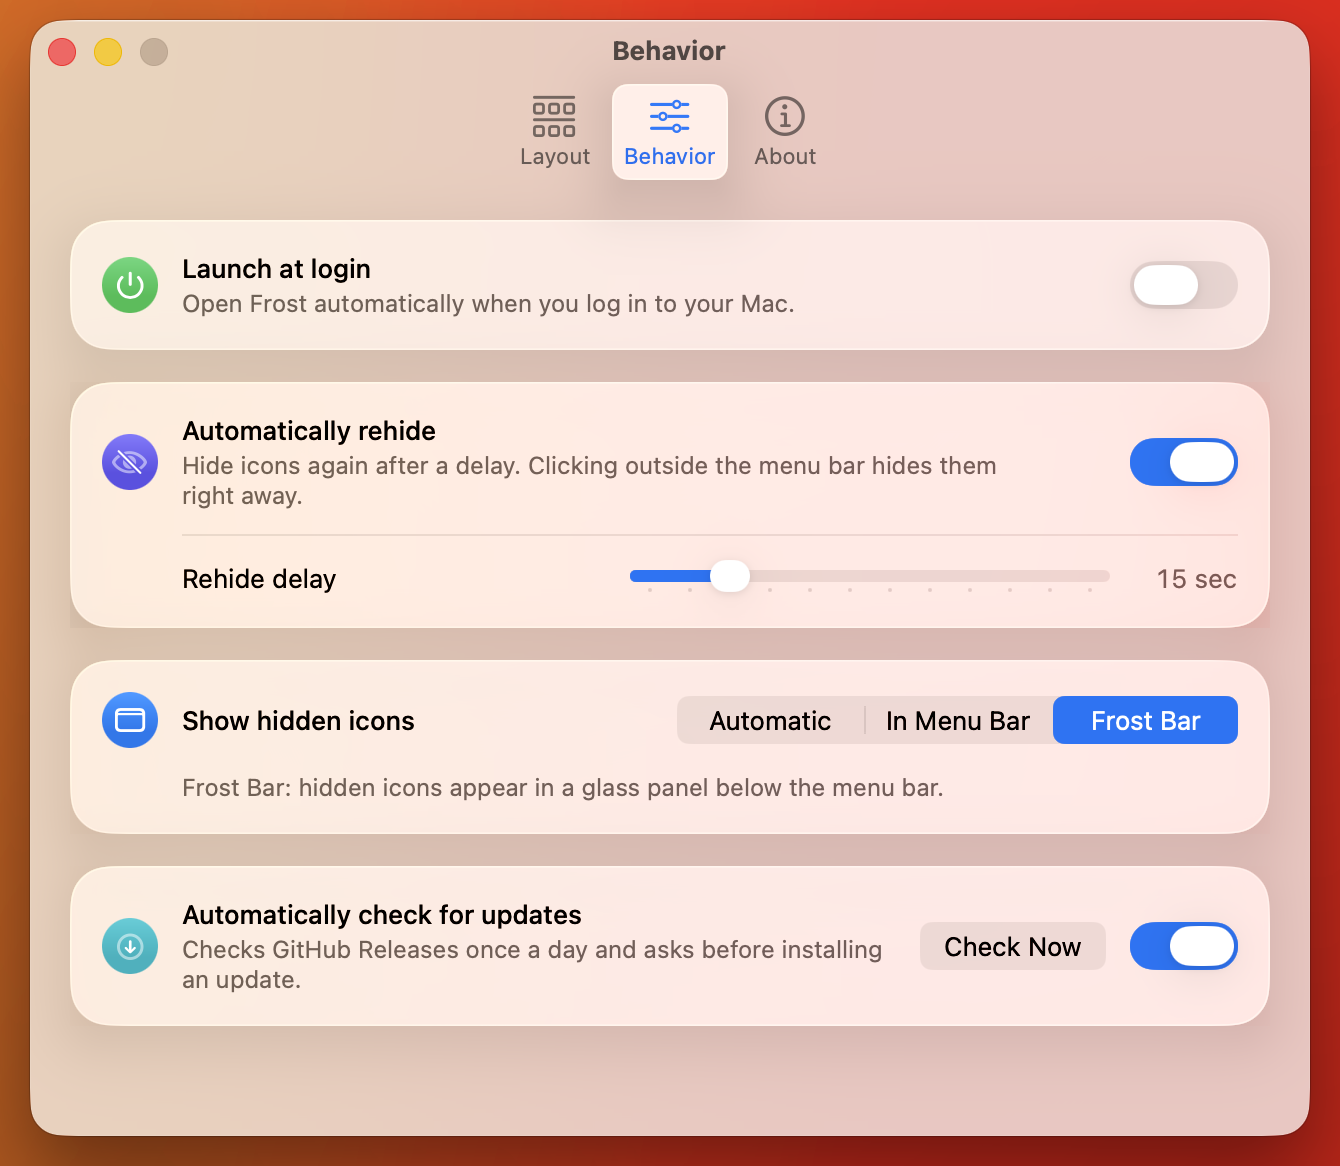
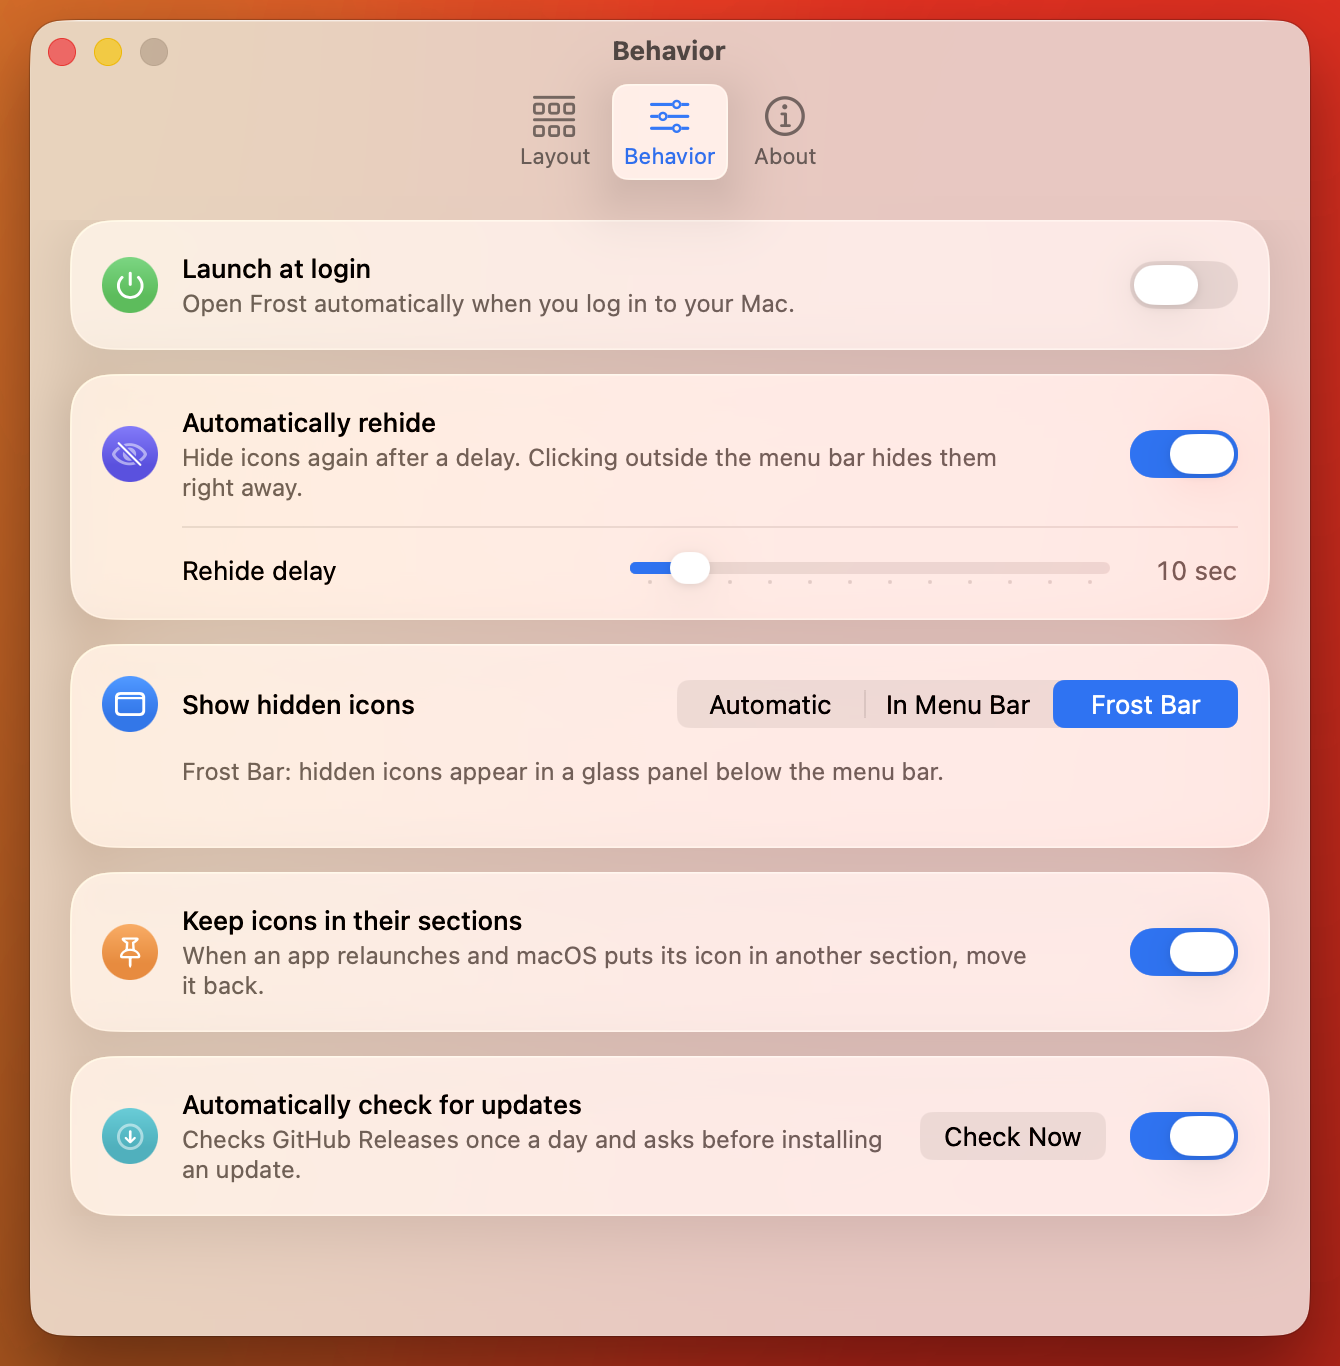
fix: keep Settings tab content below the toolbar and fit every tab
The settings window uses a full-size content view under a transparent toolbar, so
each tab's hosting view spanned the toolbar area too. Once the Behavior tab grew
taller than the fixed 470 pt content area, its ScrollView scrolled the cards up
under the toolbar, where they showed through the tab labels.

- Each tab is now hosted in a container that pins the SwiftUI view to the safe
  area (below the toolbar) and clips it there; the shared translucent background
  still extends under the toolbar.
- The 12 pt gap below the toolbar is an empty top bar instead of padding, with
  the hard scroll edge effect, so a tab that ever scrolls disappears under that
  edge instead of being cut off.
- The content area is 570 pt tall (one size for every tab, tab switches stay an
  instant-size cross-fade): Behavior measured 525 pt in English, 566 pt with the
  missing-permissions notice; zh-Hans is shorter. Behavior's card spacing goes
  from 16 to 12 pt to keep the window compact.
- FROST_TEST_SETTINGS_HEIGHT (Debug) overrides the content height for VM checks.
- Updated the Behavior screenshot.

diff --git a/Frost/Settings/SettingsWindowController.swift b/Frost/Settings/SettingsWindowController.swift
@@ -24,8 +24,20 @@ final class SettingsWindowController: NSObject, NSWindowDelegate {
         controller.show()
     }
 
-    /// Size of the tab content area below the toolbar (the same for every tab).
-    static let contentSize = NSSize(width: 640, height: 470)
+    /// Size of the tab content area below the toolbar (the same for every tab): tall enough for every tab's content
+    /// without scrolling at the default text size, in English and zh-Hans. The tallest is Behavior in English while
+    /// permissions are missing (its display mode card then adds a notice): 566 pt measured in the VM.
+    static let contentSize: NSSize = {
+        var size = NSSize(width: 640, height: 570)
+        #if DEBUG
+        // `FROST_TEST_SETTINGS_HEIGHT=<pt>` (VM testing only): another content height, e.g. small enough for the
+        // tabs to scroll, or tall enough to measure their full content.
+        if let value = ProcessInfo.processInfo.environment["FROST_TEST_SETTINGS_HEIGHT"], let height = Double(value) {
+            size.height = height
+        }
+        #endif
+        return size
+    }()
     /// Delay between showing the Layout tab and starting the editor (expanding the menu bar, rescans, captures), so the
     /// switch renders first. After a fade the editor starts once the fade has ended (plus a short margin) instead.
     private static let editorStartDelay: Duration = .milliseconds(150)
@@ -119,8 +131,7 @@ final class SettingsWindowController: NSObject, NSWindowDelegate {
         let controller: NSViewController
         switch tab {
         case .layout:
-            // Space below the toolbar (the scrolling tabs pad inside their scroll views).
-            controller = hosting(SettingsPane { LayoutEditorView().padding(.top, 12) }, model, layoutEditor)
+            controller = hosting(SettingsPane { LayoutEditorView() }, model, layoutEditor)
         case .behavior: controller = hosting(SettingsPane { BehaviorView() }, model, layoutEditor)
         case .about: controller = hosting(SettingsPane { AboutView() }, model, layoutEditor)
         }
@@ -134,8 +145,11 @@ final class SettingsWindowController: NSObject, NSWindowDelegate {
         let controller = NSHostingController(rootView: view.environment(model).environment(layoutEditor))
         // Fixed window size: the content's ideal size must not resize the window or animate it between tabs.
         controller.sizingOptions = []
-        controller.view.frame.size = contentSize
-        return controller
+        // The container already places the content below the toolbar; no further insets from SwiftUI.
+        controller.safeAreaRegions = []
+        let container = SettingsTabContainerController(content: controller)
+        container.view.frame.size = contentSize
+        return container
     }
 
     private func select(_ tab: SettingsTab) {
@@ -264,6 +278,41 @@ final class SettingsWindowController: NSObject, NSWindowDelegate {
         // The user switched back from another app: with the Layout tab active, the editor does one full refresh (icons
         // may have changed in the meantime).
         layoutEditor.windowDidBecomeKey()
+    }
+}
+
+/// One tab's content, kept below the toolbar.
+///
+/// The window has a full-size content view (the shared translucent background extends under the transparent toolbar),
+/// so a tab's view also spans the toolbar area. Left to SwiftUI, a tab's `ScrollView` would scroll its content up under
+/// the toolbar, where it shows through the toolbar's tab labels. The hosted content is therefore pinned to the safe area
+/// (the window's content layout rect) and clipped to it: nothing of a tab is ever drawn under the toolbar, and a tab
+/// that scrolls passes under the scroll edge effect of `SettingsPane`'s top bar.
+private final class SettingsTabContainerController: NSViewController {
+    private let content: NSViewController
+
+    init(content: NSViewController) {
+        self.content = content
+        super.init(nibName: nil, bundle: nil)
+    }
+
+    @available(*, unavailable)
+    required init?(coder: NSCoder) { fatalError("init(coder:) has not been implemented") }
+
+    override func loadView() {
+        let view = NSView(frame: NSRect(origin: .zero, size: SettingsWindowController.contentSize))
+        addChild(content)
+        let hosted = content.view
+        hosted.translatesAutoresizingMaskIntoConstraints = false
+        hosted.clipsToBounds = true
+        view.addSubview(hosted)
+        NSLayoutConstraint.activate([
+            hosted.topAnchor.constraint(equalTo: view.safeAreaLayoutGuide.topAnchor),
+            hosted.leadingAnchor.constraint(equalTo: view.leadingAnchor),
+            hosted.trailingAnchor.constraint(equalTo: view.trailingAnchor),
+            hosted.bottomAnchor.constraint(equalTo: view.bottomAnchor),
+        ])
+        self.view = view
     }
 }
 

diff --git a/Frost/Settings/SettingsTab.swift b/Frost/Settings/SettingsTab.swift
@@ -26,11 +26,23 @@ enum SettingsTab: String, CaseIterable, Identifiable, Hashable, Sendable {
 
 /// Root of one settings tab: the tab's content filling the content area. It has no background of its own: the window's
 /// translucent background lies behind all tabs (see `SettingsWindowController`), so only the content cross-fades.
+///
+/// The pane starts at the toolbar's bottom edge. The space between the toolbar and the content is an empty top bar
+/// rather than padding, so a tab that scrolls (larger text, a long translation) gets the standard scroll edge effect
+/// there: content scrolling up disappears under the bar's hard edge (the style for a toolbar with text labels) instead
+/// of being cut off at the pane's edge.
 struct SettingsPane<Content: View>: View {
+    /// Space between the toolbar and the tab's content.
+    static var topSpacing: CGFloat { 12 }
+
     @ViewBuilder var content: Content
 
     var body: some View {
         content
             .frame(maxWidth: .infinity, maxHeight: .infinity)
+            .scrollEdgeEffectStyle(.hard, for: .top)
+            .safeAreaBar(edge: .top, spacing: 0) {
+                Color.clear.frame(height: Self.topSpacing)
+            }
     }
 }

diff --git a/Frost/Settings/BehaviorView.swift b/Frost/Settings/BehaviorView.swift
@@ -11,7 +11,7 @@ struct BehaviorView: View {
         @Bindable var preferences = model.preferences
 
         ScrollView {
-            VStack(spacing: 16) {
+            VStack(spacing: 12) {
                 GlassCard {
                     LaunchAtLoginRow()
                 }
@@ -63,8 +63,7 @@ struct BehaviorView: View {
                 }
             }
             .padding(.horizontal, 20)
-            .padding(.top, 12)
-            .padding(.bottom, 20)
+            .padding(.bottom, 16)
             .animation(.snappy, value: preferences.displayMode)
             .animation(.snappy, value: preferences.autoRehide)
         }

diff --git a/Frost/Settings/AboutView.swift b/Frost/Settings/AboutView.swift
@@ -32,7 +32,6 @@ struct AboutView: View {
                     .foregroundStyle(.secondary)
             }
             .padding(.horizontal, 20)
-            .padding(.top, 12)
             .padding(.bottom, 20)
             .animation(.snappy, value: permissions.accessibility)
             .animation(.snappy, value: permissions.screenRecording)

diff --git a/docs/testing-vm.md b/docs/testing-vm.md
@@ -151,6 +151,10 @@ over the Frost Bar; close it via Notification Center's AX "Close" action.
   to Frost's button (a real Mac does not), but not a right click. `FROST_TEST_DROP_REPLICA_CLICKS=1`
   (`make vm-run FROST_ENV="FROST_TEST_DROP_REPLICA_CLICKS=1"`) makes Frost drop the redelivered click so the
   replica-click fallback (`ReplicaClickDetector`) can be tested with left clicks too.
+- Settings window height: the window has one fixed size for every tab, tall enough for the tallest tab without
+  scrolling. `FROST_TEST_SETTINGS_HEIGHT=<pt>` (Debug builds) overrides the content height below the toolbar: a small
+  value (e.g. 360) makes the Behavior tab scroll, to check that nothing is drawn under the toolbar; a tall one (e.g.
+  820) shows each tab's full content, whose extent can then be read from the window's accessibility tree.
 - Display mode Automatic: the VM has no notch, so Automatic expands in the menu bar on every display.
   `FROST_TEST_NOTCH_PRIMARY_DISPLAY=1` (Debug builds) makes Automatic treat the primary display as notched: the Frost
   Bar on the main display and In Menu Bar on the virtual one, like a notched Mac with an external display.
